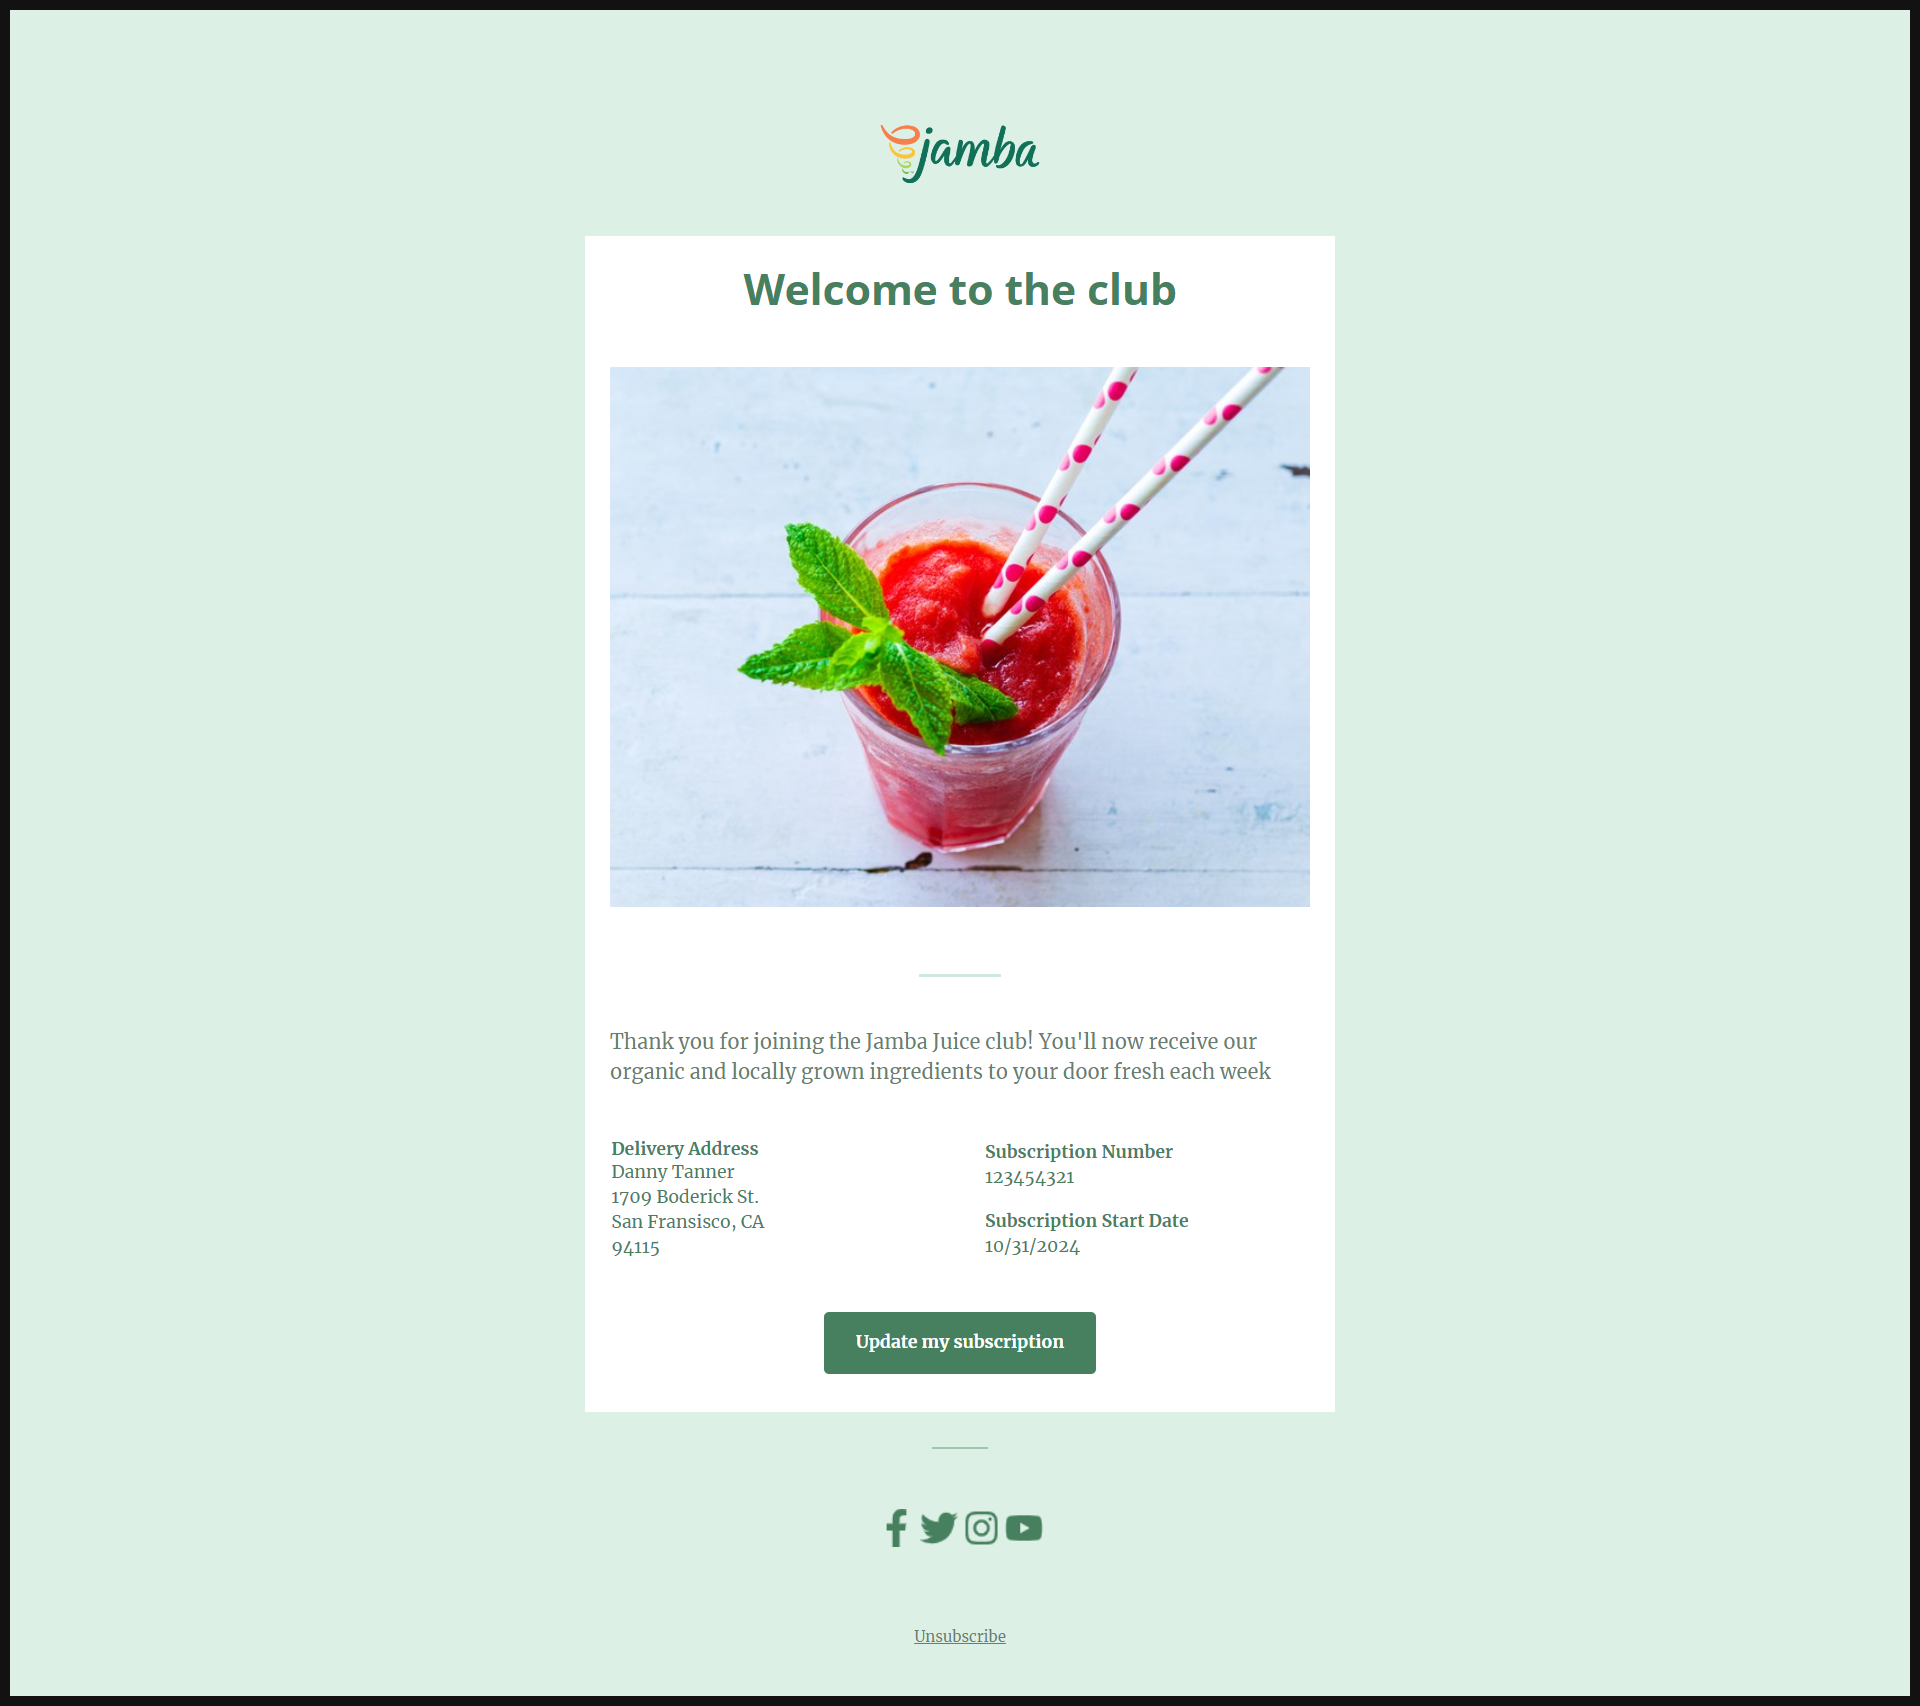
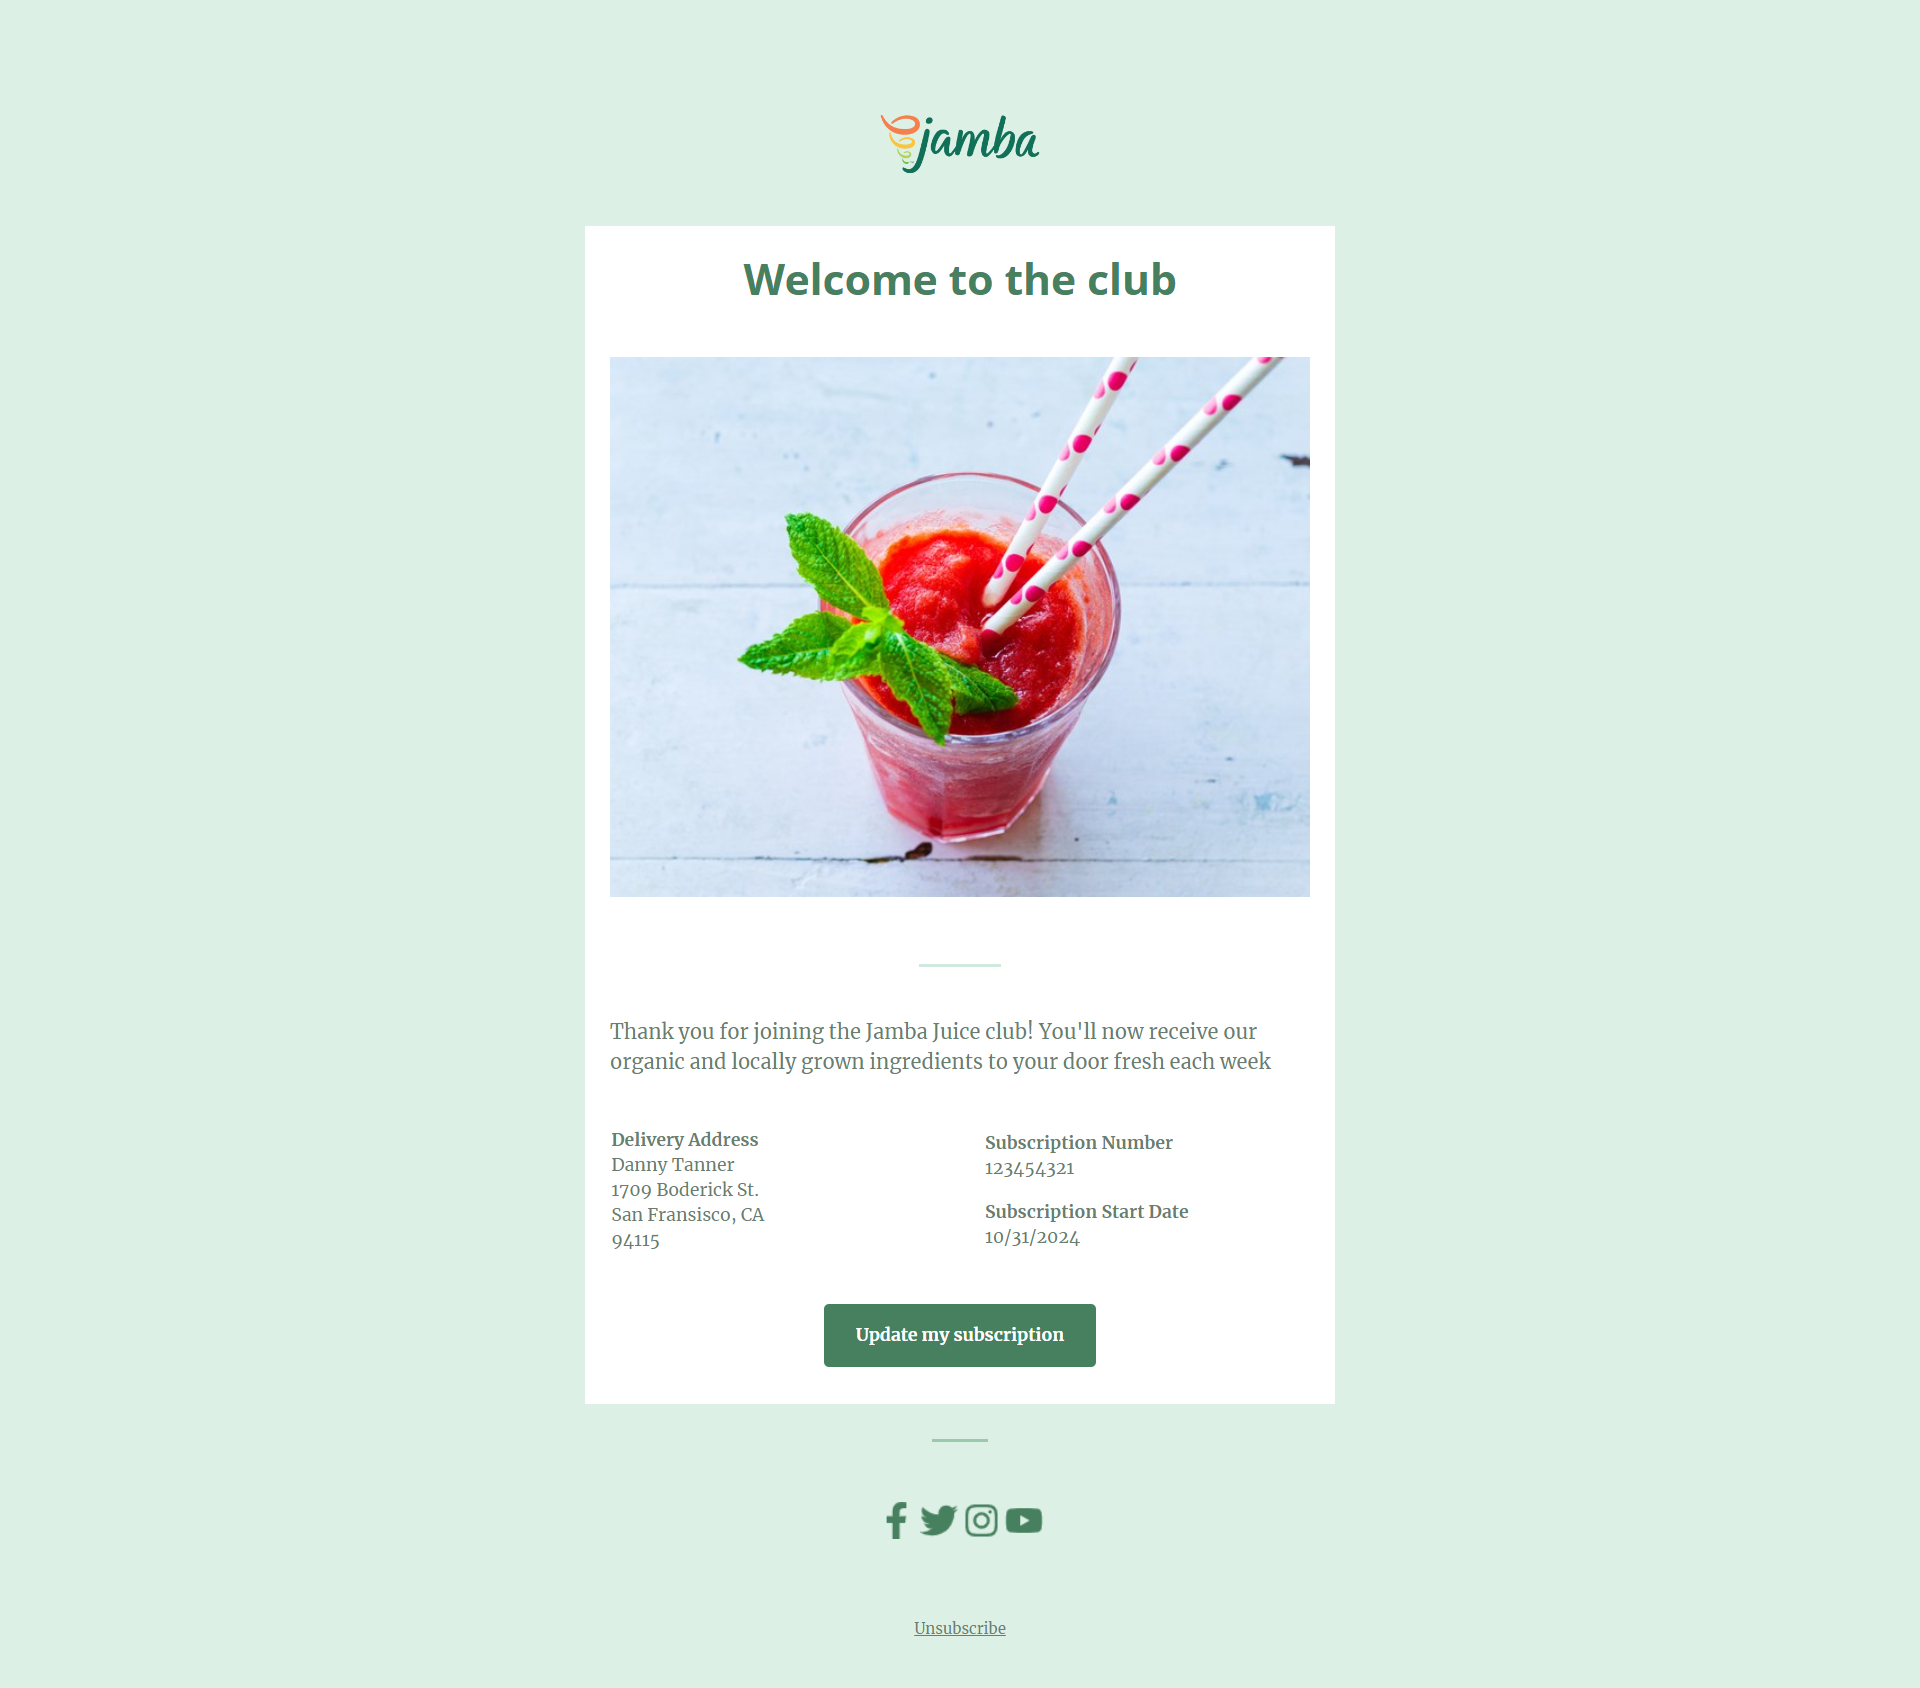
update

diff --git a/index.html b/index.html
@@ -32,7 +32,7 @@
     }
   </style>
 </head>
-<body class="body">
+<body class="body" style="margin: 0; padding:0; word-spacing: normal;background-color: #DDF0E6;">
   <div role="article" aria-roledescription="email" aria-label="email name" lang="en" dir="ltr" style="background-color: #DDF0E6; font-size:medium; font-size:max(16px, 1rem);text-size-adjust:100%;-webkit-text-size-adjust:100%;-ms-text-size-adjust:100%;">
     <table role="presentation" style="border:none;border-spacing:0;width:100%;">
         <tr>
@@ -46,7 +46,7 @@
                     <table role="presentation" style="border: 0; border-spacing: 0; width: 100%;">
                         <tr>
                             <td style="font-size: 24px; font-weight: bold; padding: 40px 20px 5px 20px; text-align: center;">
-                                <a href="http://www.example.com/" style="text-decoration: none;"><img src="images/Jamba_Juice-Logo.png" width="165" 
+                                <a href="http://www.example.com/" style="text-decoration: none;"><img src="https://i.ibb.co/hVnBrs9/Jamba-Juice-Logo.png" width="165" 
                                     alt="Logo" style="border: none; color: #ffffff; height: auto; max-width: 80%; text-decoration: none; width: 165px;"></a>
                             </td>
                         </tr>
@@ -57,7 +57,7 @@
                         </tr>
                         <tr>
                             <td style="background-color: #FFFFFF; font-size: 24px; font-weight: bold; line-height: 28px; padding: 20px;" >
-                              <img src="images/juice.jpg" width="580" alt="Juice Photo" style="height: auto; width: 100%;">
+                              <img src="https://i.ibb.co/Gv26r5c/juice.jpg" width="580" alt="Juice Photo" style="height: auto; width: 100%;">
                             </td>
                         </tr>
                         <tr>
@@ -68,7 +68,7 @@
                           </td>
                         </tr>
                         <tr>
-                          <td style="background-color: #FFFFFF; color: #47805E; font-size: 0; text-align: left;">
+                          <td style="background-color: #FFFFFF; font-size: 0; text-align: left;">
                             <!--[if mso]>
                             <table role="presentation" width="100%">
                             <tr>
@@ -76,11 +76,11 @@
                             <![endif]-->
                             <div class="column" style="display: inline-block; max-width: 280px; vertical-align: middle; width: 100%;">
                               <div style="padding: 20px;">
-                                <p style="font-family: 'Merriweather', serif; font-size: 14px; font-weight: bold; line-height: 18px; margin: 0;">Delivery Address</p>
-                                <p style="font-family: 'Merriweather', serif; font-size: 14px; line-height: 20px; margin: 0;">Danny Tanner</p>
-                                <p style="font-family: 'Merriweather', serif; font-size: 14px; line-height: 20px; margin: 0;">1709 Boderick St.</p>
-                                <p style="font-family: 'Merriweather', serif; font-size: 14px; line-height: 20px; margin: 0;">San Fransisco, CA</p>
-                                <p style="font-family: 'Merriweather', serif; font-size: 14px; line-height: 20px; margin: 0;">94115</p>
+                                <p style="color: #697D71; font-family: 'Merriweather', serif; font-size: 14px; font-weight: bold; line-height: 20px; margin: 0;">Delivery Address</p>
+                                <p style="color: #697D71; font-family: 'Merriweather', serif; font-size: 14px; line-height: 20px; margin: 0;">Danny Tanner</p>
+                                <p style="color: #697D71; font-family: 'Merriweather', serif; font-size: 14px; line-height: 20px; margin: 0;">1709 Boderick St.</p>
+                                <p style="color: #697D71; font-family: 'Merriweather', serif; font-size: 14px; line-height: 20px; margin: 0;">San Fransisco, CA</p>
+                                <p style="color: #697D71; font-family: 'Merriweather', serif; font-size: 14px; line-height: 20px; margin: 0;">94115</p>
                               </div>
                             </div>
                             <!--[if mso]>
@@ -89,10 +89,10 @@
                             <![endif]-->
                             <div class="column" style="display: inline-block; max-width: 280px; vertical-align: middle; width: 100%;">
                                 <div style="padding: 20px;">
-                                  <p style="font-family: 'Merriweather', serif; font-size: 14px; font-weight: bold; line-height: 20px; margin: 0;">Subscription Number</p>
-                                  <p style="font-family: 'Merriweather', serif; font-size: 14px; line-height: 20px; margin: 0;">123454321</p>
-                                  <p style="font-family: 'Merriweather', serif; font-size: 14px; font-weight: bold; line-height: 20px; margin: 15px 0 0 0;">Subscription Start Date</p>
-                                  <p style="font-family: 'Merriweather', serif; font-size: 14px; line-height: 20px; margin: 0;">10/31/2024</p>
+                                  <p style="color: #697D71; font-family: 'Merriweather', serif; font-size: 14px; font-weight: bold; line-height: 20px; margin: 0;">Subscription Number</p>
+                                  <p style="color: #697D71; font-family: 'Merriweather', serif; font-size: 14px; line-height: 20px; margin: 0;">123454321</p>
+                                  <p style="color: #697D71; font-family: 'Merriweather', serif; font-size: 14px; font-weight: bold; line-height: 20px; margin: 15px 0 0 0;">Subscription Start Date</p>
+                                  <p style="color: #697D71; font-family: 'Merriweather', serif; font-size: 14px; line-height: 20px; margin: 0;">10/31/2024</p>
                                 </div>
                             </div>
                             <!--[if mso]>
@@ -116,13 +116,13 @@
                         <tr>
                           <td style="background-color: #DDF0E6; padding: 20px; text-align: center;">
                             <p style="margin: 0;">
-                              <a href="http://www.facebook.com/" style="text-decoration:none;"><img src="images/facebook-f-brands.png" width="30" height="30" alt="f" 
+                              <a href="" style="text-decoration:none;"><img src="https://i.ibb.co/6ZpHrzr/facebook-f-brands.png" width="30" height="30" alt="f" 
                               style="display:inline-block;"></a> 
-                              <a href="https://twitter.com/?lang=en" style="text-decoration:none;"><img src="images/twitter-brands.png" width="30" height="30" alt="t" 
+                              <a href="https://twitter.com/?lang=en" style="text-decoration:none;"><img src="https://i.ibb.co/LpC3VBQ/twitter-brands.png" width="30" height="30" alt="t" 
                               style="display:inline-block;"></a>
-                              <a href="https://www.instagram.com/?hl=en" style="text-decoration:none;"><img src="images/instagram-brands.png" width="30" height="30" alt="i" 
+                              <a href="https://www.instagram.com/?hl=en" style="text-decoration:none;"><img src="https://i.ibb.co/k2NDc85/instagram-brands.png" width="30" height="30" alt="i" 
                                 style="display:inline-block;"></a>
-                              <a href="https://www.youtube.com" style="text-decoration:none;"><img src="images/youtube-brands.png" width="30" height="30" alt="y" 
+                              <a href="https://www.youtube.com" style="text-decoration:none;"><img src="https://i.ibb.co/9v9nx5H/youtube-brands.png" width="30" height="30" alt="y" 
                                   style="display:inline-block;"></a>
                               </p>
                           </td>
